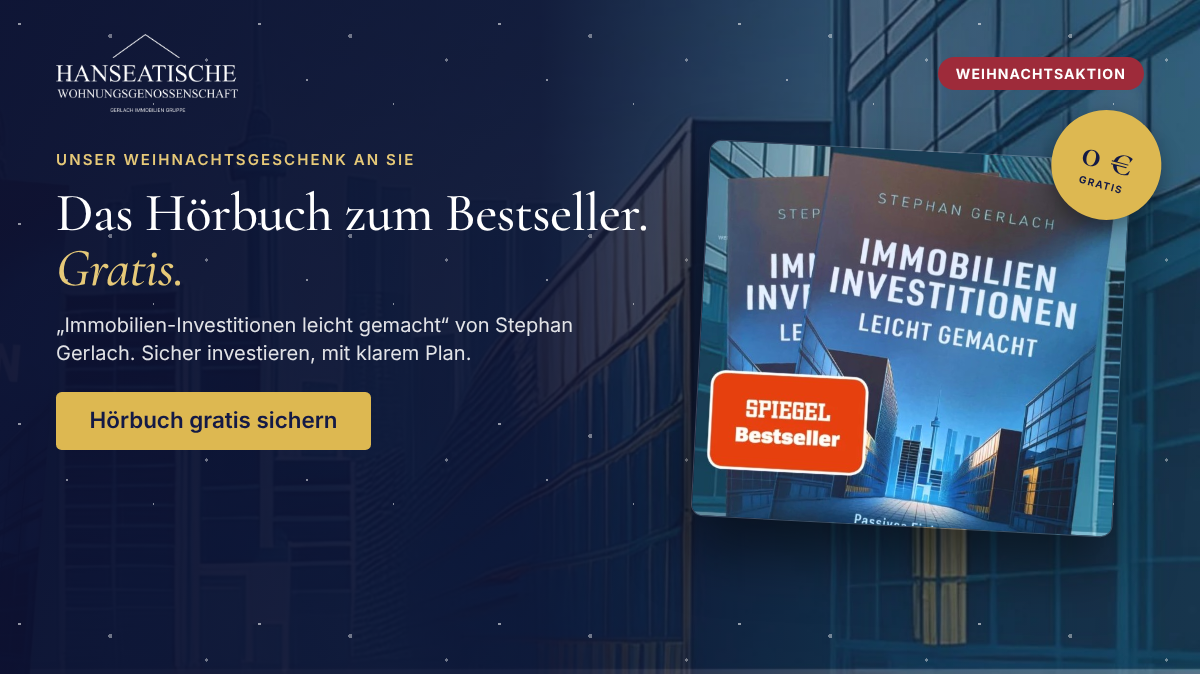
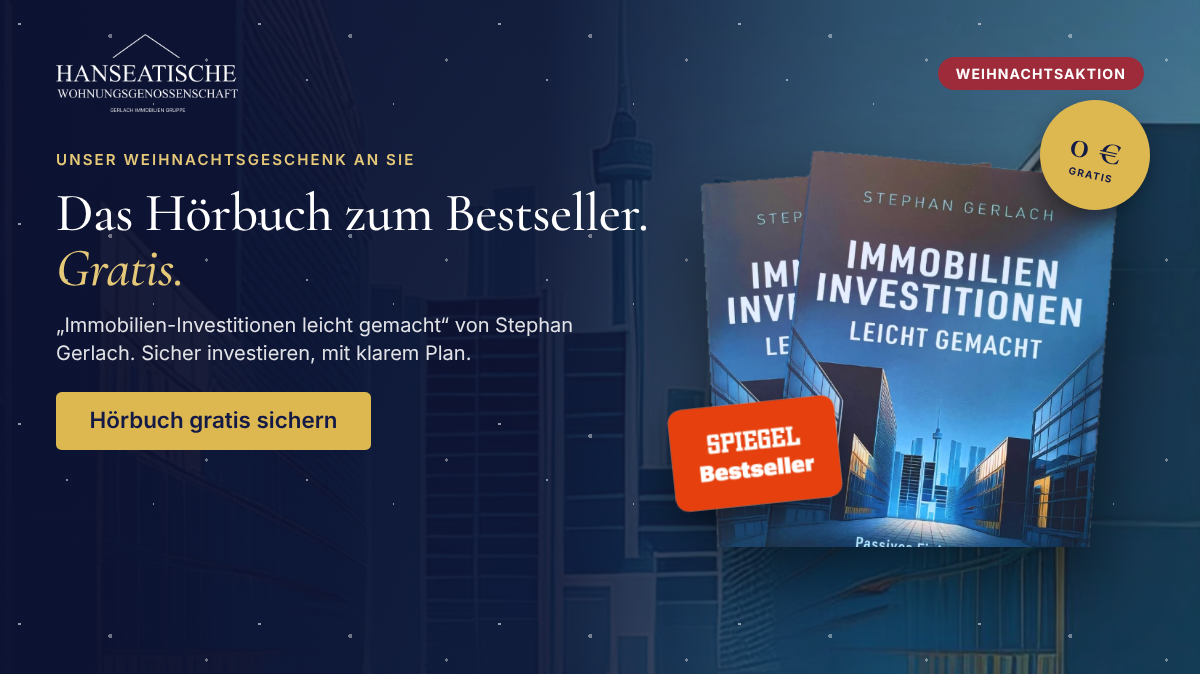
Hörbuch ads: separate background, book cutout and SPIEGEL badge
The supplied background, book and badge are used as separate layers: the
book and badge are cut out from their white backgrounds and placed on the
city background in each layout.

Claude-Session: https://claude.ai/code/session_01MwbuZMrrPYKRN76czVZSnJ

Changed region(s): [[0.4625, 0.0, 1.0, 1.0], [0.9867, 0.3427, 1.0, 0.405], [0.6475, 0.3116, 0.6783, 0.3427]]

diff --git a/sites/hwg-landing/hoerbuch-weihnachten/ads/src/preview/a-geschenk-1080x1080.html b/sites/hwg-landing/hoerbuch-weihnachten/ads/src/preview/a-geschenk-1080x1080.html
@@ -17,14 +17,14 @@ body{margin:0}
 </head>
 <body>
 <div style="position: relative; width: 1080px; height: 1080px; overflow: hidden; background: var(--gig-navy); color: #FFFFFF; font-family: var(--font-ui);">
-  <img src="../../../assets/buch-hintergrund.jpg" alt="" style="position: absolute; inset: 0; width: 100%; height: 100%; object-fit: cover; object-position: 78% 50%;">
+  <img src="../../../assets/stadt-hintergrund.jpg" alt="" style="position: absolute; inset: 0; width: 100%; height: 100%; object-fit: cover; object-position: 50% 50%;">
   <div style="position: absolute; inset: 0; background: linear-gradient(90deg, rgba(12,16,48,0.95) 0%, rgba(12,16,48,0.88) 45%, rgba(12,16,48,0.40) 72%, rgba(12,16,48,0.15) 100%);"></div>
   <div class="snow" style="position: absolute; inset: 0;"></div>
   <div style="position: absolute; left: 70px; right: 70px; top: 60px; display: flex; justify-content: space-between; align-items: center;">
     <img src="../../../assets/logo-hwg-weiss.png" alt="Hanseatische Wohnungsgenossenschaft · Gerlach Immobilien Gruppe" style="display: block; height: 110px; width: auto;">
     <span style="padding: 12px 24px; border-radius: 999px; background: #9E2B3A; font-size: 20px; font-weight: 700; letter-spacing: 0.08em; text-transform: uppercase;">Weihnachtsaktion</span>
   </div>
-  <div style="position: absolute; left: 70px; top: 240px; width: 520px; display: flex; flex-direction: column; gap: 24px;">
+  <div style="position: absolute; left: 70px; top: 310px; width: 520px; display: flex; flex-direction: column; gap: 24px;">
     <span style="font-size: 20px; font-weight: 600; letter-spacing: 0.14em; text-transform: uppercase; color: var(--gold-400);">Unser Weihnachtsgeschenk an Sie</span>
     <h1 style="margin: 0; font-family: var(--font-display); font-weight: 500; font-size: 72px; line-height: 1.02; letter-spacing: -0.01em;">Das Hörbuch zum Bestseller. <em style="font-style: italic; color: var(--gold-400);">Gratis.</em></h1>
     <p style="margin: 0; font-size: 26px; line-height: 1.4; color: rgba(255,255,255,0.88);">„Immobilien-Investitionen leicht gemacht“ von Stephan Gerlach. Sicher investieren, mit klarem Plan.</p>
@@ -32,8 +32,9 @@ body{margin:0}
       <span class="pbtn">Hörbuch gratis sichern</span>
     </div>
   </div>
-  <div style="position: absolute; left: 600px; top: 300px; transform: rotate(3deg);">
-    <img src="../../../assets/buch-mockup.jpg" alt="Buch „Immobilien-Investitionen leicht gemacht“ von Stephan Gerlach, SPIEGEL-Bestseller" style="display: block; width: 430px; height: auto; border-radius: 12px; border: 1px solid rgba(255,255,255,0.18); box-shadow: 0 30px 60px rgba(0,0,0,0.5);">
+  <div style="position: absolute; left: 640px; top: 380px;">
+    <img src="../../../assets/buch-mockup.png" alt="Buch „Immobilien-Investitionen leicht gemacht“ von Stephan Gerlach" style="display: block; width: 400px; height: auto; filter: drop-shadow(0 30px 36px rgba(0,0,0,0.55));">
+    <img src="../../../assets/spiegel-bestseller.png" alt="SPIEGEL-Bestseller" style="position: absolute; left: -28px; bottom: 40px; width: 160px; height: auto; transform: rotate(-6deg); filter: drop-shadow(0 10px 18px rgba(0,0,0,0.45));">
     <div style="position: absolute; right: -10px; top: -70px; width: 140px; height: 140px; border-radius: 50%; background: var(--gig-gold); color: var(--gig-navy); display: flex; flex-direction: column; align-items: center; justify-content: center; transform: rotate(12deg); box-shadow: 0 8px 20px rgba(0,0,0,0.35);">
       <span style="font-family: var(--font-display); font-weight: 600; font-size: 50px; line-height: 0.9;">0 €</span>
       <span style="margin-top: 4px; font-size: 13px; font-weight: 700; letter-spacing: 0.14em; text-transform: uppercase;">Gratis</span>

diff --git a/sites/hwg-landing/hoerbuch-weihnachten/ads/src/preview/c-zwischen-den-jahren-1080x1080.html b/sites/hwg-landing/hoerbuch-weihnachten/ads/src/preview/c-zwischen-den-jahren-1080x1080.html
@@ -17,14 +17,14 @@ body{margin:0}
 </head>
 <body>
 <div style="position: relative; width: 1080px; height: 1080px; overflow: hidden; background: var(--gig-navy); color: #FFFFFF; font-family: var(--font-ui);">
-  <img src="../../../assets/buch-hintergrund.jpg" alt="" style="position: absolute; inset: 0; width: 100%; height: 100%; object-fit: cover; object-position: 66% 50%;">
+  <img src="../../../assets/stadt-hintergrund.jpg" alt="" style="position: absolute; inset: 0; width: 100%; height: 100%; object-fit: cover; object-position: 50% 50%;">
   <div style="position: absolute; inset: 0; background: linear-gradient(90deg, rgba(12,16,48,0.95) 0%, rgba(12,16,48,0.88) 45%, rgba(12,16,48,0.40) 72%, rgba(12,16,48,0.15) 100%);"></div>
   <div class="snow" style="position: absolute; inset: 0;"></div>
   <div style="position: absolute; left: 70px; right: 70px; top: 60px; display: flex; justify-content: space-between; align-items: center;">
     <img src="../../../assets/logo-hwg-weiss.png" alt="Hanseatische Wohnungsgenossenschaft · Gerlach Immobilien Gruppe" style="display: block; height: 110px; width: auto;">
     <span style="padding: 12px 24px; border-radius: 999px; background: #9E2B3A; font-size: 20px; font-weight: 700; letter-spacing: 0.08em; text-transform: uppercase;">Kostenlos</span>
   </div>
-  <div style="position: absolute; left: 70px; top: 240px; width: 520px; display: flex; flex-direction: column; gap: 24px;">
+  <div style="position: absolute; left: 70px; top: 310px; width: 520px; display: flex; flex-direction: column; gap: 24px;">
     <span style="font-size: 20px; font-weight: 600; letter-spacing: 0.14em; text-transform: uppercase; color: var(--gold-400);">Für die Tage zwischen den Jahren</span>
     <h1 style="margin: 0; font-family: var(--font-display); font-weight: 500; font-size: 66px; line-height: 1.02; letter-spacing: -0.01em;">Kopfhörer auf. <em style="font-style: italic; color: var(--gold-400);">Plan fürs Immobilien-Vermögen</em> an.</h1>
     <div style="display: flex; flex-wrap: wrap; gap: 12px;">
@@ -36,8 +36,9 @@ body{margin:0}
       <span class="pbtn">Hörbuch gratis anhören</span>
     </div>
   </div>
-  <div style="position: absolute; left: 600px; top: 300px; transform: rotate(3deg);">
-    <img src="../../../assets/buch-mockup.jpg" alt="Buch „Immobilien-Investitionen leicht gemacht“ von Stephan Gerlach, SPIEGEL-Bestseller" style="display: block; width: 430px; height: auto; border-radius: 12px; border: 1px solid rgba(255,255,255,0.18); box-shadow: 0 30px 60px rgba(0,0,0,0.5);">
+  <div style="position: absolute; left: 640px; top: 380px;">
+    <img src="../../../assets/buch-mockup.png" alt="Buch „Immobilien-Investitionen leicht gemacht“ von Stephan Gerlach" style="display: block; width: 400px; height: auto; filter: drop-shadow(0 30px 36px rgba(0,0,0,0.55));">
+    <img src="../../../assets/spiegel-bestseller.png" alt="SPIEGEL-Bestseller" style="position: absolute; left: -28px; bottom: 40px; width: 160px; height: auto; transform: rotate(-6deg); filter: drop-shadow(0 10px 18px rgba(0,0,0,0.45));">
     <div style="position: absolute; right: -10px; top: -70px; width: 140px; height: 140px; border-radius: 50%; background: var(--gig-gold); color: var(--gig-navy); display: flex; flex-direction: column; align-items: center; justify-content: center; transform: rotate(12deg); box-shadow: 0 8px 20px rgba(0,0,0,0.35);">
       <span style="font-family: var(--font-display); font-weight: 600; font-size: 50px; line-height: 0.9;">0 €</span>
       <span style="margin-top: 4px; font-size: 13px; font-weight: 700; letter-spacing: 0.14em; text-transform: uppercase;">Gratis</span>

diff --git a/sites/hwg-landing/hoerbuch-weihnachten/ads/src/preview/a-geschenk-1080x1350.html b/sites/hwg-landing/hoerbuch-weihnachten/ads/src/preview/a-geschenk-1080x1350.html
@@ -17,7 +17,7 @@ body{margin:0}
 </head>
 <body>
 <div style="position: relative; width: 1080px; height: 1350px; overflow: hidden; background: var(--gig-navy); color: #FFFFFF; font-family: var(--font-ui);">
-  <img src="../../../assets/buch-hintergrund.jpg" alt="" style="position: absolute; inset: 0; width: 100%; height: 100%; object-fit: cover; object-position: 78% 50%;">
+  <img src="../../../assets/stadt-hintergrund.jpg" alt="" style="position: absolute; inset: 0; width: 100%; height: 100%; object-fit: cover; object-position: 50% 50%;">
   <div style="position: absolute; inset: 0; background: linear-gradient(180deg, rgba(12,16,48,0.95) 0%, rgba(12,16,48,0.85) 36%, rgba(12,16,48,0.45) 62%, rgba(12,16,48,0.88) 100%);"></div>
   <div class="snow" style="position: absolute; inset: 0;"></div>
   <div style="position: absolute; left: 70px; right: 70px; top: 56px; display: flex; justify-content: space-between; align-items: center;">
@@ -30,8 +30,9 @@ body{margin:0}
       <h1 style="margin: 0; font-family: var(--font-display); font-weight: 500; font-size: 80px; line-height: 1.02; letter-spacing: -0.01em;">Das Hörbuch zum Bestseller. <em style="font-style: italic; color: var(--gold-400);">Gratis.</em></h1>
       <p style="margin: 0; font-size: 27px; line-height: 1.4; color: rgba(255,255,255,0.88); max-width: 860px;">„Immobilien-Investitionen leicht gemacht“ von Stephan Gerlach. Sicher investieren, mit klarem Plan.</p>
     </div>
-    <div style="position: relative; transform: rotate(-2deg);">
-      <img src="../../../assets/buch-mockup.jpg" alt="Buch „Immobilien-Investitionen leicht gemacht“ von Stephan Gerlach, SPIEGEL-Bestseller" style="display: block; width: 520px; height: auto; border-radius: 12px; border: 1px solid rgba(255,255,255,0.18); box-shadow: 0 30px 60px rgba(0,0,0,0.5);">
+    <div style="position: relative;">
+      <img src="../../../assets/buch-mockup.png" alt="Buch „Immobilien-Investitionen leicht gemacht“ von Stephan Gerlach" style="display: block; width: 520px; height: auto; filter: drop-shadow(0 30px 36px rgba(0,0,0,0.55));">
+    <img src="../../../assets/spiegel-bestseller.png" alt="SPIEGEL-Bestseller" style="position: absolute; left: -36px; bottom: 52px; width: 208px; height: auto; transform: rotate(-6deg); filter: drop-shadow(0 10px 18px rgba(0,0,0,0.45));">
       <div style="position: absolute; right: -60px; top: -40px; width: 140px; height: 140px; border-radius: 50%; background: var(--gig-gold); color: var(--gig-navy); display: flex; flex-direction: column; align-items: center; justify-content: center; transform: rotate(12deg); box-shadow: 0 8px 20px rgba(0,0,0,0.35);">
       <span style="font-family: var(--font-display); font-weight: 600; font-size: 50px; line-height: 0.9;">0 €</span>
       <span style="margin-top: 4px; font-size: 13px; font-weight: 700; letter-spacing: 0.14em; text-transform: uppercase;">Gratis</span>

diff --git a/sites/hwg-landing/hoerbuch-weihnachten/ads/src/preview/a-geschenk-1080x1920.html b/sites/hwg-landing/hoerbuch-weihnachten/ads/src/preview/a-geschenk-1080x1920.html
@@ -17,7 +17,7 @@ body{margin:0}
 </head>
 <body>
 <div style="position: relative; width: 1080px; height: 1920px; overflow: hidden; background: var(--gig-navy); color: #FFFFFF; font-family: var(--font-ui);">
-  <img src="../../../assets/buch-hintergrund.jpg" alt="" style="position: absolute; inset: 0; width: 100%; height: 100%; object-fit: cover; object-position: 78% 50%;">
+  <img src="../../../assets/stadt-hintergrund.jpg" alt="" style="position: absolute; inset: 0; width: 100%; height: 100%; object-fit: cover; object-position: 50% 50%;">
   <div style="position: absolute; inset: 0; background: linear-gradient(180deg, rgba(12,16,48,0.95) 0%, rgba(12,16,48,0.85) 36%, rgba(12,16,48,0.45) 62%, rgba(12,16,48,0.88) 100%);"></div>
   <div class="snow" style="position: absolute; inset: 0;"></div>
   <div style="position: absolute; left: 0; right: 0; top: 100px; display: flex; justify-content: center;">
@@ -29,8 +29,9 @@ body{margin:0}
       <h1 style="margin: 0; font-family: var(--font-display); font-weight: 500; font-size: 100px; line-height: 1.02; letter-spacing: -0.01em;">Das Hörbuch zum Bestseller. <em style="font-style: italic; color: var(--gold-400);">Gratis.</em></h1>
       <p style="margin: 0; font-size: 34px; line-height: 1.4; color: rgba(255,255,255,0.88);">„Immobilien-Investitionen leicht gemacht“ von Stephan Gerlach.</p>
     </div>
-    <div style="position: relative; transform: rotate(-2deg);">
-      <img src="../../../assets/buch-mockup.jpg" alt="Buch „Immobilien-Investitionen leicht gemacht“ von Stephan Gerlach, SPIEGEL-Bestseller" style="display: block; width: 640px; height: auto; border-radius: 12px; border: 1px solid rgba(255,255,255,0.18); box-shadow: 0 30px 60px rgba(0,0,0,0.5);">
+    <div style="position: relative;">
+      <img src="../../../assets/buch-mockup.png" alt="Buch „Immobilien-Investitionen leicht gemacht“ von Stephan Gerlach" style="display: block; width: 640px; height: auto; filter: drop-shadow(0 30px 36px rgba(0,0,0,0.55));">
+    <img src="../../../assets/spiegel-bestseller.png" alt="SPIEGEL-Bestseller" style="position: absolute; left: -45px; bottom: 64px; width: 256px; height: auto; transform: rotate(-6deg); filter: drop-shadow(0 10px 18px rgba(0,0,0,0.45));">
       <div style="position: absolute; right: -60px; top: -50px; width: 170px; height: 170px; border-radius: 50%; background: var(--gig-gold); color: var(--gig-navy); display: flex; flex-direction: column; align-items: center; justify-content: center; transform: rotate(12deg); box-shadow: 0 8px 20px rgba(0,0,0,0.35);">
       <span style="font-family: var(--font-display); font-weight: 600; font-size: 61px; line-height: 0.9;">0 €</span>
       <span style="margin-top: 4px; font-size: 16px; font-weight: 700; letter-spacing: 0.14em; text-transform: uppercase;">Gratis</span>

diff --git a/sites/hwg-landing/hoerbuch-weihnachten/ads/src/preview/c-zwischen-den-jahren-1080x1350.html b/sites/hwg-landing/hoerbuch-weihnachten/ads/src/preview/c-zwischen-den-jahren-1080x1350.html
@@ -17,7 +17,7 @@ body{margin:0}
 </head>
 <body>
 <div style="position: relative; width: 1080px; height: 1350px; overflow: hidden; background: var(--gig-navy); color: #FFFFFF; font-family: var(--font-ui);">
-  <img src="../../../assets/buch-hintergrund.jpg" alt="" style="position: absolute; inset: 0; width: 100%; height: 100%; object-fit: cover; object-position: 66% 50%;">
+  <img src="../../../assets/stadt-hintergrund.jpg" alt="" style="position: absolute; inset: 0; width: 100%; height: 100%; object-fit: cover; object-position: 50% 50%;">
   <div style="position: absolute; inset: 0; background: linear-gradient(180deg, rgba(12,16,48,0.95) 0%, rgba(12,16,48,0.85) 36%, rgba(12,16,48,0.45) 62%, rgba(12,16,48,0.88) 100%);"></div>
   <div class="snow" style="position: absolute; inset: 0;"></div>
   <div style="position: absolute; left: 70px; right: 70px; top: 56px; display: flex; justify-content: space-between; align-items: center;">
@@ -34,8 +34,9 @@ body{margin:0}
         <span style="padding: 10px 18px; border: 1px solid rgba(221,184,81,0.6); border-radius: 6px; font-size: 22px; background: rgba(12,16,48,0.45);">Beim Spaziergang</span>
       </div>
     </div>
-    <div style="position: relative; transform: rotate(-2deg);">
-      <img src="../../../assets/buch-mockup.jpg" alt="Buch „Immobilien-Investitionen leicht gemacht“ von Stephan Gerlach, SPIEGEL-Bestseller" style="display: block; width: 520px; height: auto; border-radius: 12px; border: 1px solid rgba(255,255,255,0.18); box-shadow: 0 30px 60px rgba(0,0,0,0.5);">
+    <div style="position: relative;">
+      <img src="../../../assets/buch-mockup.png" alt="Buch „Immobilien-Investitionen leicht gemacht“ von Stephan Gerlach" style="display: block; width: 520px; height: auto; filter: drop-shadow(0 30px 36px rgba(0,0,0,0.55));">
+    <img src="../../../assets/spiegel-bestseller.png" alt="SPIEGEL-Bestseller" style="position: absolute; left: -36px; bottom: 52px; width: 208px; height: auto; transform: rotate(-6deg); filter: drop-shadow(0 10px 18px rgba(0,0,0,0.45));">
       <div style="position: absolute; right: -60px; top: -40px; width: 140px; height: 140px; border-radius: 50%; background: var(--gig-gold); color: var(--gig-navy); display: flex; flex-direction: column; align-items: center; justify-content: center; transform: rotate(12deg); box-shadow: 0 8px 20px rgba(0,0,0,0.35);">
       <span style="font-family: var(--font-display); font-weight: 600; font-size: 50px; line-height: 0.9;">0 €</span>
       <span style="margin-top: 4px; font-size: 13px; font-weight: 700; letter-spacing: 0.14em; text-transform: uppercase;">Gratis</span>

diff --git a/sites/hwg-landing/hoerbuch-weihnachten/ads/src/preview/c-zwischen-den-jahren-1080x1920.html b/sites/hwg-landing/hoerbuch-weihnachten/ads/src/preview/c-zwischen-den-jahren-1080x1920.html
@@ -17,7 +17,7 @@ body{margin:0}
 </head>
 <body>
 <div style="position: relative; width: 1080px; height: 1920px; overflow: hidden; background: var(--gig-navy); color: #FFFFFF; font-family: var(--font-ui);">
-  <img src="../../../assets/buch-hintergrund.jpg" alt="" style="position: absolute; inset: 0; width: 100%; height: 100%; object-fit: cover; object-position: 66% 50%;">
+  <img src="../../../assets/stadt-hintergrund.jpg" alt="" style="position: absolute; inset: 0; width: 100%; height: 100%; object-fit: cover; object-position: 50% 50%;">
   <div style="position: absolute; inset: 0; background: linear-gradient(180deg, rgba(12,16,48,0.95) 0%, rgba(12,16,48,0.85) 36%, rgba(12,16,48,0.45) 62%, rgba(12,16,48,0.88) 100%);"></div>
   <div class="snow" style="position: absolute; inset: 0;"></div>
   <div style="position: absolute; left: 0; right: 0; top: 100px; display: flex; justify-content: center;">
@@ -33,8 +33,9 @@ body{margin:0}
         <span style="padding: 12px 22px; border: 1px solid rgba(221,184,81,0.6); border-radius: 6px; font-size: 28px; background: rgba(12,16,48,0.45);">Beim Spaziergang</span>
       </div>
     </div>
-    <div style="position: relative; transform: rotate(-2deg);">
-      <img src="../../../assets/buch-mockup.jpg" alt="Buch „Immobilien-Investitionen leicht gemacht“ von Stephan Gerlach, SPIEGEL-Bestseller" style="display: block; width: 640px; height: auto; border-radius: 12px; border: 1px solid rgba(255,255,255,0.18); box-shadow: 0 30px 60px rgba(0,0,0,0.5);">
+    <div style="position: relative;">
+      <img src="../../../assets/buch-mockup.png" alt="Buch „Immobilien-Investitionen leicht gemacht“ von Stephan Gerlach" style="display: block; width: 640px; height: auto; filter: drop-shadow(0 30px 36px rgba(0,0,0,0.55));">
+    <img src="../../../assets/spiegel-bestseller.png" alt="SPIEGEL-Bestseller" style="position: absolute; left: -45px; bottom: 64px; width: 256px; height: auto; transform: rotate(-6deg); filter: drop-shadow(0 10px 18px rgba(0,0,0,0.45));">
       <div style="position: absolute; right: -60px; top: -50px; width: 170px; height: 170px; border-radius: 50%; background: var(--gig-gold); color: var(--gig-navy); display: flex; flex-direction: column; align-items: center; justify-content: center; transform: rotate(12deg); box-shadow: 0 8px 20px rgba(0,0,0,0.35);">
       <span style="font-family: var(--font-display); font-weight: 600; font-size: 61px; line-height: 0.9;">0 €</span>
       <span style="margin-top: 4px; font-size: 16px; font-weight: 700; letter-spacing: 0.14em; text-transform: uppercase;">Gratis</span>

diff --git a/sites/hwg-landing/hoerbuch-weihnachten/ads/src/preview/c-zwischen-den-jahren-1200x674.html b/sites/hwg-landing/hoerbuch-weihnachten/ads/src/preview/c-zwischen-den-jahren-1200x674.html
@@ -17,7 +17,7 @@ body{margin:0}
 </head>
 <body>
 <div style="position: relative; width: 1200px; height: 674px; overflow: hidden; background: var(--gig-navy); color: #FFFFFF; font-family: var(--font-ui);">
-  <img src="../../../assets/buch-hintergrund.jpg" alt="" style="position: absolute; inset: 0; width: 100%; height: 100%; object-fit: cover; object-position: 100% 50%;">
+  <img src="../../../assets/stadt-hintergrund.jpg" alt="" style="position: absolute; inset: 0; width: 100%; height: 100%; object-fit: cover; object-position: 50% 50%;">
   <div style="position: absolute; inset: 0; background: linear-gradient(90deg, rgba(12,16,48,0.95) 0%, rgba(12,16,48,0.88) 45%, rgba(12,16,48,0.40) 72%, rgba(12,16,48,0.15) 100%);"></div>
   <div class="snow" style="position: absolute; inset: 0;"></div>
   <div style="position: absolute; left: 56px; right: 56px; top: 34px; display: flex; justify-content: space-between; align-items: center;">
@@ -36,8 +36,9 @@ body{margin:0}
       <span class="pbtn">Hörbuch gratis anhören</span>
     </div>
   </div>
-  <div style="position: absolute; left: 700px; top: 150px; transform: rotate(3deg);">
-    <img src="../../../assets/buch-mockup.jpg" alt="Buch „Immobilien-Investitionen leicht gemacht“ von Stephan Gerlach, SPIEGEL-Bestseller" style="display: block; width: 420px; height: auto; border-radius: 12px; border: 1px solid rgba(255,255,255,0.18); box-shadow: 0 30px 60px rgba(0,0,0,0.5);">
+  <div style="position: absolute; left: 700px; top: 150px;">
+    <img src="../../../assets/buch-mockup.png" alt="Buch „Immobilien-Investitionen leicht gemacht“ von Stephan Gerlach" style="display: block; width: 420px; height: auto; filter: drop-shadow(0 30px 36px rgba(0,0,0,0.55));">
+    <img src="../../../assets/spiegel-bestseller.png" alt="SPIEGEL-Bestseller" style="position: absolute; left: -29px; bottom: 42px; width: 168px; height: auto; transform: rotate(-6deg); filter: drop-shadow(0 10px 18px rgba(0,0,0,0.45));">
     <div style="position: absolute; right: -30px; top: -50px; width: 110px; height: 110px; border-radius: 50%; background: var(--gig-gold); color: var(--gig-navy); display: flex; flex-direction: column; align-items: center; justify-content: center; transform: rotate(12deg); box-shadow: 0 8px 20px rgba(0,0,0,0.35);">
       <span style="font-family: var(--font-display); font-weight: 600; font-size: 40px; line-height: 0.9;">0 €</span>
       <span style="margin-top: 4px; font-size: 10px; font-weight: 700; letter-spacing: 0.14em; text-transform: uppercase;">Gratis</span>

diff --git a/sites/hwg-landing/hoerbuch-weihnachten/ads/src/preview/a-geschenk-1200x674.html b/sites/hwg-landing/hoerbuch-weihnachten/ads/src/preview/a-geschenk-1200x674.html
@@ -17,7 +17,7 @@ body{margin:0}
 </head>
 <body>
 <div style="position: relative; width: 1200px; height: 674px; overflow: hidden; background: var(--gig-navy); color: #FFFFFF; font-family: var(--font-ui);">
-  <img src="../../../assets/buch-hintergrund.jpg" alt="" style="position: absolute; inset: 0; width: 100%; height: 100%; object-fit: cover; object-position: 100% 50%;">
+  <img src="../../../assets/stadt-hintergrund.jpg" alt="" style="position: absolute; inset: 0; width: 100%; height: 100%; object-fit: cover; object-position: 50% 50%;">
   <div style="position: absolute; inset: 0; background: linear-gradient(90deg, rgba(12,16,48,0.95) 0%, rgba(12,16,48,0.88) 45%, rgba(12,16,48,0.40) 72%, rgba(12,16,48,0.15) 100%);"></div>
   <div class="snow" style="position: absolute; inset: 0;"></div>
   <div style="position: absolute; left: 56px; right: 56px; top: 34px; display: flex; justify-content: space-between; align-items: center;">
@@ -32,8 +32,9 @@ body{margin:0}
       <span class="pbtn">Hörbuch gratis sichern</span>
     </div>
   </div>
-  <div style="position: absolute; left: 700px; top: 150px; transform: rotate(3deg);">
-    <img src="../../../assets/buch-mockup.jpg" alt="Buch „Immobilien-Investitionen leicht gemacht“ von Stephan Gerlach, SPIEGEL-Bestseller" style="display: block; width: 420px; height: auto; border-radius: 12px; border: 1px solid rgba(255,255,255,0.18); box-shadow: 0 30px 60px rgba(0,0,0,0.5);">
+  <div style="position: absolute; left: 700px; top: 150px;">
+    <img src="../../../assets/buch-mockup.png" alt="Buch „Immobilien-Investitionen leicht gemacht“ von Stephan Gerlach" style="display: block; width: 420px; height: auto; filter: drop-shadow(0 30px 36px rgba(0,0,0,0.55));">
+    <img src="../../../assets/spiegel-bestseller.png" alt="SPIEGEL-Bestseller" style="position: absolute; left: -29px; bottom: 42px; width: 168px; height: auto; transform: rotate(-6deg); filter: drop-shadow(0 10px 18px rgba(0,0,0,0.45));">
     <div style="position: absolute; right: -30px; top: -50px; width: 110px; height: 110px; border-radius: 50%; background: var(--gig-gold); color: var(--gig-navy); display: flex; flex-direction: column; align-items: center; justify-content: center; transform: rotate(12deg); box-shadow: 0 8px 20px rgba(0,0,0,0.35);">
       <span style="font-family: var(--font-display); font-weight: 600; font-size: 40px; line-height: 0.9;">0 €</span>
       <span style="margin-top: 4px; font-size: 10px; font-weight: 700; letter-spacing: 0.14em; text-transform: uppercase;">Gratis</span>

diff --git a/sites/hwg-landing/hoerbuch-weihnachten/ads/src/preview/b-autor-1080x1350.html b/sites/hwg-landing/hoerbuch-weihnachten/ads/src/preview/b-autor-1080x1350.html
@@ -17,7 +17,7 @@ body{margin:0}
 </head>
 <body>
 <div style="position: relative; width: 1080px; height: 1350px; overflow: hidden; background: var(--gig-navy); color: #FFFFFF; font-family: var(--font-ui);">
-  <img src="../../../assets/buch-hintergrund.jpg" alt="" style="position: absolute; inset: 0; width: 100%; height: 100%; object-fit: cover; object-position: 70% 50%;">
+  <img src="../../../assets/stadt-hintergrund.jpg" alt="" style="position: absolute; inset: 0; width: 100%; height: 100%; object-fit: cover; object-position: 50% 50%;">
   <div style="position: absolute; inset: 0; background: linear-gradient(180deg, rgba(12,16,48,0.96) 0%, rgba(12,16,48,0.90) 45%, rgba(12,16,48,0.75) 100%);"></div>
   <img src="../../../assets/stephan-gerlach-portraet.jpg" alt="Stephan Gerlach" style="position: absolute; left: 470px; top: 700px; width: 560px; height: 650px; object-fit: cover; object-position: 50% 0%; -webkit-mask-image: linear-gradient(180deg, transparent 0, #000 26%); mask-image: linear-gradient(180deg, transparent 0, #000 26%);">
   <div style="position: absolute; left: 0; right: 0; top: 56px; display: flex; justify-content: center;">
@@ -29,8 +29,9 @@ body{margin:0}
     <p style="margin: 0; font-size: 27px; line-height: 1.4; color: rgba(255,255,255,0.88);">Wie Sie mit Immobilien sicher Vermögen aufbauen. Kompakt zum Anhören.</p>
     <span style="font-family: var(--font-display); font-style: italic; font-size: 32px;">Stephan Gerlach</span>
   </div>
-  <div style="position: absolute; left: 70px; top: 740px; transform: rotate(-4deg);">
-    <img src="../../../assets/buch-mockup.jpg" alt="Buch „Immobilien-Investitionen leicht gemacht“ von Stephan Gerlach, SPIEGEL-Bestseller" style="display: block; width: 400px; height: auto; border-radius: 12px; border: 1px solid rgba(255,255,255,0.18); box-shadow: 0 30px 60px rgba(0,0,0,0.5);">
+  <div style="position: absolute; left: 70px; top: 740px;">
+    <img src="../../../assets/buch-mockup.png" alt="Buch „Immobilien-Investitionen leicht gemacht“ von Stephan Gerlach" style="display: block; width: 400px; height: auto; filter: drop-shadow(0 30px 36px rgba(0,0,0,0.55));">
+    <img src="../../../assets/spiegel-bestseller.png" alt="SPIEGEL-Bestseller" style="position: absolute; left: -28px; bottom: 40px; width: 160px; height: auto; transform: rotate(-6deg); filter: drop-shadow(0 10px 18px rgba(0,0,0,0.45));">
   </div>
   <div style="position: absolute; left: 70px; top: 1150px;">
     <div style="zoom: 1.8;">

diff --git a/sites/hwg-landing/hoerbuch-weihnachten/ads/src/preview/b-autor-1080x1080.html b/sites/hwg-landing/hoerbuch-weihnachten/ads/src/preview/b-autor-1080x1080.html
@@ -17,7 +17,7 @@ body{margin:0}
 </head>
 <body>
 <div style="position: relative; width: 1080px; height: 1080px; overflow: hidden; background: var(--gig-navy); color: #FFFFFF; font-family: var(--font-ui);">
-  <img src="../../../assets/buch-hintergrund.jpg" alt="" style="position: absolute; inset: 0; width: 100%; height: 100%; object-fit: cover; object-position: 70% 50%;">
+  <img src="../../../assets/stadt-hintergrund.jpg" alt="" style="position: absolute; inset: 0; width: 100%; height: 100%; object-fit: cover; object-position: 50% 50%;">
   <div style="position: absolute; inset: 0; background: linear-gradient(90deg, rgba(12,16,48,0.96) 0%, rgba(12,16,48,0.90) 50%, rgba(12,16,48,0.70) 100%);"></div>
   <img src="../../../assets/stephan-gerlach-portraet.jpg" alt="Stephan Gerlach" style="position: absolute; right: -20px; bottom: 0; width: 560px; height: 900px; object-fit: cover; object-position: 50% 0%; -webkit-mask-image: linear-gradient(90deg, transparent 0, #000 26%); mask-image: linear-gradient(90deg, transparent 0, #000 26%);">
   <div style="position: absolute; left: 70px; top: 60px;">
@@ -32,8 +32,9 @@ body{margin:0}
       <span class="pbtn">Gratis-Hörbuch anfordern</span>
     </div>
   </div>
-  <div style="position: absolute; left: 610px; top: 640px; transform: rotate(-4deg);">
-    <img src="../../../assets/buch-mockup.jpg" alt="Buch „Immobilien-Investitionen leicht gemacht“ von Stephan Gerlach, SPIEGEL-Bestseller" style="display: block; width: 320px; height: auto; border-radius: 12px; border: 1px solid rgba(255,255,255,0.18); box-shadow: 0 30px 60px rgba(0,0,0,0.5);">
+  <div style="position: absolute; left: 610px; top: 640px;">
+    <img src="../../../assets/buch-mockup.png" alt="Buch „Immobilien-Investitionen leicht gemacht“ von Stephan Gerlach" style="display: block; width: 320px; height: auto; filter: drop-shadow(0 30px 36px rgba(0,0,0,0.55));">
+    <img src="../../../assets/spiegel-bestseller.png" alt="SPIEGEL-Bestseller" style="position: absolute; left: -22px; bottom: 32px; width: 128px; height: auto; transform: rotate(-6deg); filter: drop-shadow(0 10px 18px rgba(0,0,0,0.45));">
   </div>
   <p style="position: absolute; left: 70px; bottom: 40px; margin: 0; font-size: 15px; color: rgba(255,255,255,0.6);">Kostenloses Hörbuch per E-Mail-Download. Keine Anlageberatung.</p>
 </div>

diff --git a/sites/hwg-landing/hoerbuch-weihnachten/ads/src/preview/b-autor-1080x1920.html b/sites/hwg-landing/hoerbuch-weihnachten/ads/src/preview/b-autor-1080x1920.html
@@ -17,7 +17,7 @@ body{margin:0}
 </head>
 <body>
 <div style="position: relative; width: 1080px; height: 1920px; overflow: hidden; background: var(--gig-navy); color: #FFFFFF; font-family: var(--font-ui);">
-  <img src="../../../assets/buch-hintergrund.jpg" alt="" style="position: absolute; inset: 0; width: 100%; height: 100%; object-fit: cover; object-position: 70% 50%;">
+  <img src="../../../assets/stadt-hintergrund.jpg" alt="" style="position: absolute; inset: 0; width: 100%; height: 100%; object-fit: cover; object-position: 50% 50%;">
   <div style="position: absolute; inset: 0; background: linear-gradient(180deg, rgba(12,16,48,0.96) 0%, rgba(12,16,48,0.90) 45%, rgba(12,16,48,0.75) 100%);"></div>
   <img src="../../../assets/stephan-gerlach-portraet.jpg" alt="Stephan Gerlach" style="position: absolute; left: 330px; top: 1050px; width: 700px; height: 870px; object-fit: cover; object-position: 50% 0%; -webkit-mask-image: linear-gradient(180deg, transparent 0, #000 26%); mask-image: linear-gradient(180deg, transparent 0, #000 26%);">
   <div style="position: absolute; left: 0; right: 0; top: 100px; display: flex; justify-content: center;">
@@ -32,8 +32,9 @@ body{margin:0}
       <span class="pbtn">Gratis-Hörbuch anfordern</span>
     </div>
   </div>
-  <div style="position: absolute; left: 76px; top: 1090px; transform: rotate(-4deg);">
-    <img src="../../../assets/buch-mockup.jpg" alt="Buch „Immobilien-Investitionen leicht gemacht“ von Stephan Gerlach, SPIEGEL-Bestseller" style="display: block; width: 460px; height: auto; border-radius: 12px; border: 1px solid rgba(255,255,255,0.18); box-shadow: 0 30px 60px rgba(0,0,0,0.5);">
+  <div style="position: absolute; left: 76px; top: 1090px;">
+    <img src="../../../assets/buch-mockup.png" alt="Buch „Immobilien-Investitionen leicht gemacht“ von Stephan Gerlach" style="display: block; width: 460px; height: auto; filter: drop-shadow(0 30px 36px rgba(0,0,0,0.55));">
+    <img src="../../../assets/spiegel-bestseller.png" alt="SPIEGEL-Bestseller" style="position: absolute; left: -32px; bottom: 46px; width: 184px; height: auto; transform: rotate(-6deg); filter: drop-shadow(0 10px 18px rgba(0,0,0,0.45));">
   </div>
 </div>
 </body>

diff --git a/sites/hwg-landing/hoerbuch-weihnachten/ads/src/preview/b-autor-1200x674.html b/sites/hwg-landing/hoerbuch-weihnachten/ads/src/preview/b-autor-1200x674.html
@@ -17,7 +17,7 @@ body{margin:0}
 </head>
 <body>
 <div style="position: relative; width: 1200px; height: 674px; overflow: hidden; background: var(--gig-navy); color: #FFFFFF; font-family: var(--font-ui);">
-  <img src="../../../assets/buch-hintergrund.jpg" alt="" style="position: absolute; inset: 0; width: 100%; height: 100%; object-fit: cover; object-position: 100% 50%;">
+  <img src="../../../assets/stadt-hintergrund.jpg" alt="" style="position: absolute; inset: 0; width: 100%; height: 100%; object-fit: cover; object-position: 50% 50%;">
   <div style="position: absolute; inset: 0; background: linear-gradient(90deg, rgba(12,16,48,0.96) 0%, rgba(12,16,48,0.90) 50%, rgba(12,16,48,0.70) 100%);"></div>
   <img src="../../../assets/stephan-gerlach-portraet.jpg" alt="Stephan Gerlach" style="position: absolute; right: 0; top: 0; width: 460px; height: 674px; object-fit: cover; object-position: 50% 0%; -webkit-mask-image: linear-gradient(90deg, transparent 0, #000 26%); mask-image: linear-gradient(90deg, transparent 0, #000 26%);">
   <div style="position: absolute; left: 56px; top: 34px;">
@@ -32,8 +32,9 @@ body{margin:0}
       <span class="pbtn">Gratis-Hörbuch anfordern</span>
     </div>
   </div>
-  <div style="position: absolute; left: 640px; top: 400px; transform: rotate(-4deg);">
-    <img src="../../../assets/buch-mockup.jpg" alt="Buch „Immobilien-Investitionen leicht gemacht“ von Stephan Gerlach, SPIEGEL-Bestseller" style="display: block; width: 250px; height: auto; border-radius: 12px; border: 1px solid rgba(255,255,255,0.18); box-shadow: 0 30px 60px rgba(0,0,0,0.5);">
+  <div style="position: absolute; left: 640px; top: 400px;">
+    <img src="../../../assets/buch-mockup.png" alt="Buch „Immobilien-Investitionen leicht gemacht“ von Stephan Gerlach" style="display: block; width: 250px; height: auto; filter: drop-shadow(0 30px 36px rgba(0,0,0,0.55));">
+    <img src="../../../assets/spiegel-bestseller.png" alt="SPIEGEL-Bestseller" style="position: absolute; left: -18px; bottom: 25px; width: 100px; height: auto; transform: rotate(-6deg); filter: drop-shadow(0 10px 18px rgba(0,0,0,0.45));">
   </div>
 </div>
 </body>
